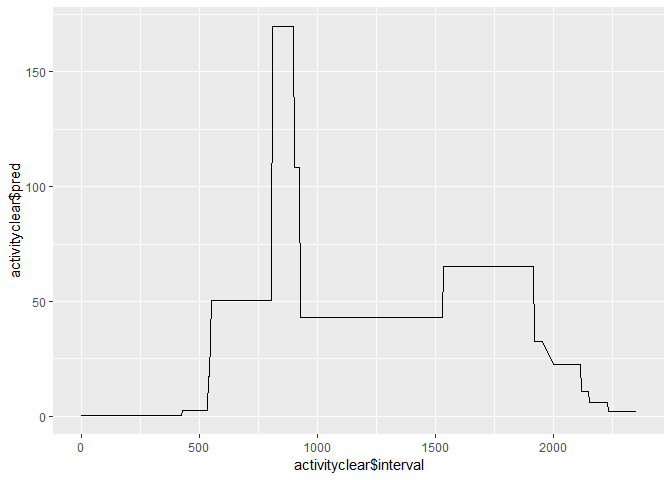
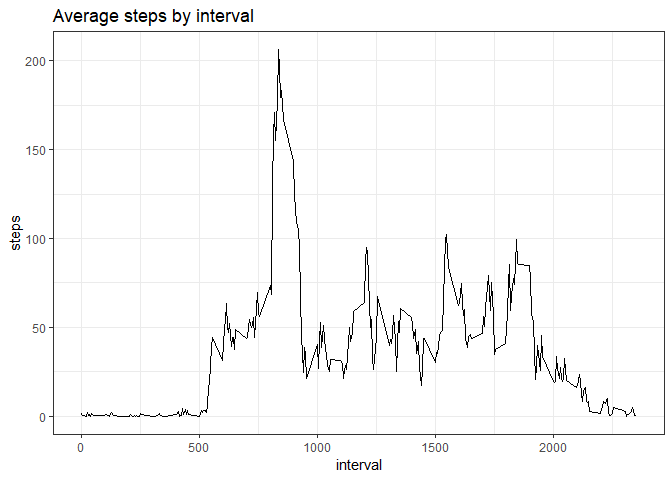
solved daily pattern part

diff --git a/PA1_results.html b/PA1_results.html
@@ -246,17 +246,7 @@ x+geom_point()+theme_bw()</code></pre>
 <li><p>Make a histogram of the total number of steps taken each day</p></li>
 <li><p>Calculate and report the mean and median total number of steps taken per day</p></li>
 </ol>
-<pre class="r"><code>library(dplyr)</code></pre>
-<pre><code>## 
-## Attaching package: 'dplyr'</code></pre>
-<pre><code>## The following objects are masked from 'package:stats':
-## 
-##     filter, lag</code></pre>
-<pre><code>## The following objects are masked from 'package:base':
-## 
-##     intersect, setdiff, setequal, union</code></pre>
-<pre class="r"><code>activity %&gt;% group_by(date) %&gt;% mutate(sumstep=cumsum(steps))-&gt; test
-daysteps&lt;- aggregate(steps ~ date, activity, sum)
+<pre class="r"><code>daysteps&lt;- aggregate(steps ~ date, activity, sum)
 ggplot(daysteps, aes(x=steps))+ 
         geom_histogram()+labs(x=&quot;Number of steps per day&quot;, y=&quot;Count&quot;, title = &quot;Total daily steps distribution&quot;)+
         geom_vline(aes(xintercept=mean(daysteps$steps, na.rm = TRUE), color=&quot;mean&quot;), show.legend=TRUE, size=2)+
@@ -272,13 +262,23 @@ ggplot(daysteps, aes(x=steps))+
 <div id="what-is-the-average-daily-activity-pattern" class="section level2">
 <h2>What is the average daily activity pattern?</h2>
 <ol style="list-style-type: decimal">
-<li><p>Make a time series plot (i.e. type = “l”) of the 5-minute interval (x-axis) and the average number of steps taken, averaged across all days (y-axis)</p></li>
-<li><p>Which 5-minute interval, on average across all the days in the dataset, contains the maximum number of steps?</p></li>
+<li>Make a time series plot (i.e. type = “l”) of the 5-minute interval (x-axis) and the average number of steps taken, averaged across all days (y-axis)</li>
 </ol>
+<pre class="r"><code>intervalsteps&lt;- aggregate(steps ~ interval, activity, mean)
+ggplot(data=intervalsteps, aes(x=interval, y=steps))+theme_bw()+geom_line()+
+        labs(title = &quot;Average steps by interval&quot;)</code></pre>
[1 lines of base64/hex data omitted]
+<ol start="2" style="list-style-type: decimal">
+<li>Which 5-minute interval, on average across all the days in the dataset, contains the maximum number of steps?</li>
+</ol>
+<pre class="r"><code>intervalsteps[which.max(intervalsteps$steps),1]</code></pre>
+<pre><code>## [1] 835</code></pre>
+<p>Bonus - comparison on average steps for interval with predicted average steps based on desision tree model.</p>
 <pre class="r"><code>activityclear &lt;- na.omit(activity)
 activityclear$datenum &lt;- as.numeric(activityclear$date)
 activityclear &lt;- activityclear[,-2]
- library(party)</code></pre>
+
+library(party)</code></pre>
 <pre><code>## Loading required package: grid</code></pre>
 <pre><code>## Loading required package: mvtnorm</code></pre>
 <pre><code>## Loading required package: modeltools</code></pre>
@@ -291,10 +291,18 @@ activityclear &lt;- activityclear[,-2]
 ## 
 ##     as.Date, as.Date.numeric</code></pre>
 <pre><code>## Loading required package: sandwich</code></pre>
-<pre class="r"><code> cfit1 &lt;- ctree(steps ~ ., data = activityclear[,-3])
- activityclear$pred &lt;- predict(cfit1,activityclear)
-qplot(activityclear$interval,activityclear$pred, geom = &quot;line&quot;) </code></pre>
[1 lines of base64/hex data omitted]
+<pre class="r"><code>library(reshape2)
+
+cfit1 &lt;- ctree(steps ~ ., data = activityclear[,-3])
+activityclear$pred &lt;- predict(cfit1,activityclear)
+
+intervalsteps$pred &lt;- predict(cfit1,intervalsteps)
+interval_long &lt;- melt(intervalsteps, id = &quot;interval&quot;)  # convert to long format</code></pre>
+<pre><code>## Warning: attributes are not identical across measure variables; they will
+## be dropped</code></pre>
+<pre class="r"><code>ggplot(interval_long, aes(x = interval, y = value, colour = variable)) + 
+        theme_bw()+geom_line()+labs(title = &quot;Average steps per interval, actual and predicted by model&quot;)</code></pre>
[1 lines of base64/hex data omitted]
 </div>
 <div id="imputing-missing-values" class="section level2">
 <h2>Imputing missing values</h2>

diff --git a/PA1_results.md b/PA1_results.md
@@ -99,28 +99,6 @@ For this part of the assignment, you can ignore the missing values in the datase
 2. Calculate and report the mean and median total number of steps taken per day
 
 ```r
-library(dplyr)
-```
-
-```
-## 
-## Attaching package: 'dplyr'
-```
-
-```
-## The following objects are masked from 'package:stats':
-## 
-##     filter, lag
-```
-
-```
-## The following objects are masked from 'package:base':
-## 
-##     intersect, setdiff, setequal, union
-```
-
-```r
-activity %>% group_by(date) %>% mutate(sumstep=cumsum(steps))-> test
 daysteps<- aggregate(steps ~ date, activity, sum)
 ggplot(daysteps, aes(x=steps))+ 
         geom_histogram()+labs(x="Number of steps per day", y="Count", title = "Total daily steps distribution")+
@@ -157,15 +135,35 @@ median(daysteps$steps, na.rm = TRUE)
 1. Make a time series plot (i.e. type = "l") of the 5-minute interval (x-axis)
 and the average number of steps taken, averaged across all days (y-axis)
 
+```r
+intervalsteps<- aggregate(steps ~ interval, activity, mean)
+ggplot(data=intervalsteps, aes(x=interval, y=steps))+theme_bw()+geom_line()+
+        labs(title = "Average steps by interval")
+```
+
+![](PA1_results_files/figure-html/unnamed-chunk-4-1.png)<!-- -->
+
 2. Which 5-minute interval, on average across all the days in the dataset,
 contains the maximum number of steps?
 
 
 ```r
+intervalsteps[which.max(intervalsteps$steps),1]
+```
+
+```
+## [1] 835
+```
+
+
+Bonus - comparison on average steps for interval with predicted average steps based on desision tree model.
+
+```r
 activityclear <- na.omit(activity)
 activityclear$datenum <- as.numeric(activityclear$date)
 activityclear <- activityclear[,-2]
- library(party)
+
+library(party)
 ```
 
 ```
@@ -208,12 +206,26 @@ activityclear <- activityclear[,-2]
 ```
 
 ```r
- cfit1 <- ctree(steps ~ ., data = activityclear[,-3])
- activityclear$pred <- predict(cfit1,activityclear)
-qplot(activityclear$interval,activityclear$pred, geom = "line") 
+library(reshape2)
+
+cfit1 <- ctree(steps ~ ., data = activityclear[,-3])
+activityclear$pred <- predict(cfit1,activityclear)
+
+intervalsteps$pred <- predict(cfit1,intervalsteps)
+interval_long <- melt(intervalsteps, id = "interval")  # convert to long format
 ```
 
-![](PA1_results_files/figure-html/unnamed-chunk-4-1.png)<!-- -->
+```
+## Warning: attributes are not identical across measure variables; they will
+## be dropped
+```
+
+```r
+ggplot(interval_long, aes(x = interval, y = value, colour = variable)) + 
+        theme_bw()+geom_line()+labs(title = "Average steps per interval, actual and predicted by model")
+```
+
+![](PA1_results_files/figure-html/unnamed-chunk-6-1.png)<!-- -->
 
 ## Imputing missing values
 Note that there are a number of days/intervals where there are missing values
